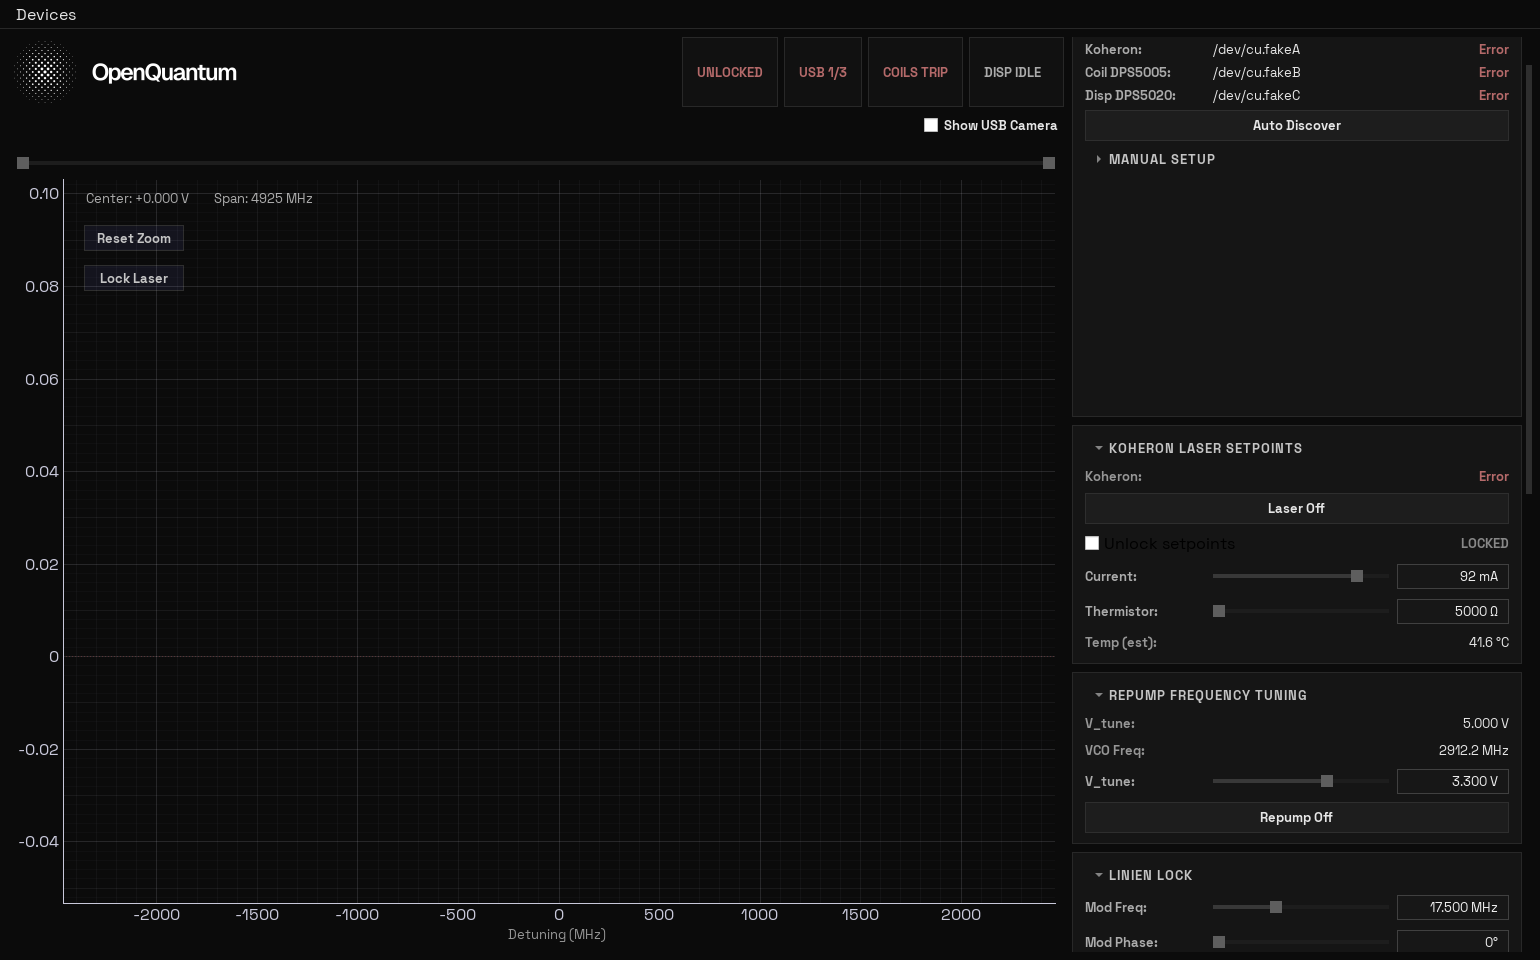
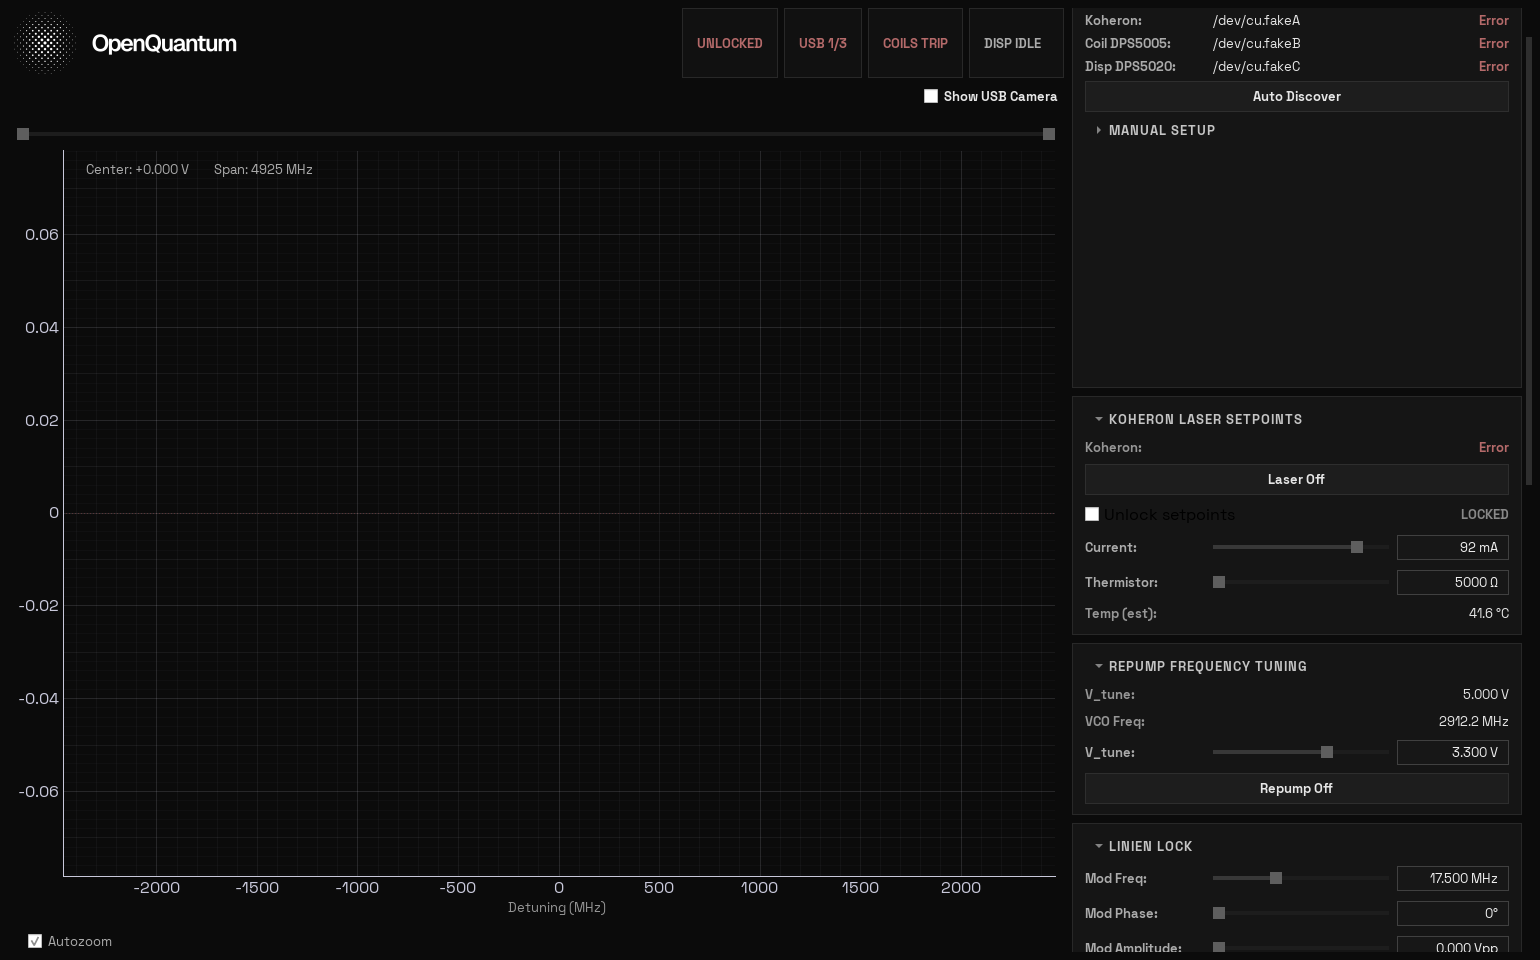
Clear the plot of buttons; autozoom on by default
Reset Zoom is gone, replaced by an Autozoom checkbox under the plot that
starts on and keeps Y tracking the signal. X stays under the sweep
slider -- autozooming it would fight _limit_xrange.

Lock Laser and Unlock move into the Linien Lock card. They are still
built by the Linien widget, which owns their lock wiring, and handed over
as lock_controls. Nothing but the centre/span labels sits over the traces
now.

The Devices menu bar is removed: both entries duplicated controls that
are already in the Device Connections card.

diff --git a/linien_widget.py b/linien_widget.py
@@ -147,45 +147,47 @@ class LinienWidget(QtWidgets.QWidget):
             QPushButton:hover { background-color: rgba(40,40,60,220); color: white; }
         """
 
-        self.reset_view_btn = QtWidgets.QPushButton("Reset Zoom")
-        self.reset_view_btn.setFixedSize(100, 26)
-        self.reset_view_btn.setStyleSheet(overlay_btn_style)
-        self.reset_view_btn.clicked.connect(self._reset_view)
-        proxy = QtWidgets.QGraphicsProxyWidget(vb)
-        proxy.setWidget(self.reset_view_btn)
-        proxy.setZValue(1000)
-        proxy.setPos(20, 45)
+        # Nothing but labels sits over the traces. The lock controls are
+        # handed to the host window (see lock_controls) so they can live in
+        # the Linien Lock card, and autozoom sits under the plot.
+        foot = QtWidgets.QHBoxLayout()
+        foot.setContentsMargins(20, 2, 8, 2)
+        foot.setSpacing(8)
+        self.autozoom_check = QtWidgets.QCheckBox("Autozoom")
+        self.autozoom_check.setChecked(True)
+        self.autozoom_check.setCursor(QtCore.Qt.PointingHandCursor)
+        self.autozoom_check.setStyleSheet(
+            "QCheckBox { color: #ababab; font-size: 13px; border: none; }"
+            "QCheckBox::indicator { width: 14px; height: 14px; }"
+        )
+        self.autozoom_check.toggled.connect(self._set_autozoom)
+        foot.addWidget(self.autozoom_check)
+        foot.addStretch()
+        layout.addLayout(foot)
+        self._set_autozoom(True)
 
+        self.lock_controls = QtWidgets.QWidget()
+        lock_row = QtWidgets.QHBoxLayout(self.lock_controls)
+        lock_row.setContentsMargins(0, 0, 0, 0)
+        lock_row.setSpacing(6)
         if self._show_lock_buttons:
             self.lock_button = QtWidgets.QPushButton("Lock Laser")
-            self.lock_button.setFixedSize(100, 26)
-            self.lock_button.setStyleSheet(overlay_btn_style)
+            self.lock_button.setCursor(QtCore.Qt.PointingHandCursor)
             self.lock_button.clicked.connect(self._run_lock)
-            proxy = QtWidgets.QGraphicsProxyWidget(vb)
-            proxy.setWidget(self.lock_button)
-            proxy.setZValue(1000)
-            proxy.setPos(20, 85)
+            lock_row.addWidget(self.lock_button)
 
             self.unlock_button = QtWidgets.QPushButton("Unlock")
-            self.unlock_button.setFixedSize(100, 26)
-            self.unlock_button.setStyleSheet(overlay_btn_style)
+            self.unlock_button.setCursor(QtCore.Qt.PointingHandCursor)
             self.unlock_button.clicked.connect(self._run_unlock)
-            proxy = QtWidgets.QGraphicsProxyWidget(vb)
-            proxy.setWidget(self.unlock_button)
-            proxy.setZValue(1000)
-            proxy.setPos(20, 120)
+            lock_row.addWidget(self.unlock_button)
 
             self._set_locked_ui(False)
 
         if self._show_stop_button:
             self.stop_sweep_btn = QtWidgets.QPushButton("Stop Sweep")
-            self.stop_sweep_btn.setFixedSize(100, 26)
-            self.stop_sweep_btn.setStyleSheet(overlay_btn_style)
+            self.stop_sweep_btn.setCursor(QtCore.Qt.PointingHandCursor)
             self.stop_sweep_btn.clicked.connect(self._stop_sweep)
-            proxy = QtWidgets.QGraphicsProxyWidget(vb)
-            proxy.setWidget(self.stop_sweep_btn)
-            proxy.setZValue(1000)
-            proxy.setPos(20, 85)
+            lock_row.addWidget(self.stop_sweep_btn)
 
         # Populate the overlay labels with calibrated units immediately,
         # so they don't sit at "0 V / 2 V" while waiting for the Linien
@@ -311,11 +313,15 @@ class LinienWidget(QtWidgets.QWidget):
         if current_xrange[0] < d_min or current_xrange[1] > d_max:
             vb.setXRange(d_min, d_max, padding=0)
 
-    def _reset_view(self):
-        slider_min, slider_max = self.xrange_slider.value()
-        d_min, d_max = self._v_range_to_display(slider_min / 1000, slider_max / 1000)
-        self.plot.setXRange(d_min, d_max, padding=0)
-        self.plot.setYRange(*self.original_yrange)
+    def _set_autozoom(self, on):
+        """Track the signal on Y, or hold whatever range is showing.
+
+        X stays under the sweep slider's control either way -- autozooming
+        it would fight _limit_xrange.
+        """
+        self.plot.enableAutoRange(axis="y", enable=bool(on))
+        if not on:
+            self.plot.setYRange(*self.plot.viewRange()[1], padding=0)
 
     def _run_lock(self):
         if self.linien_thread is None:

diff --git a/mot_control.py b/mot_control.py
@@ -860,7 +860,6 @@ class OpenQuantumControlsWindow(QtWidgets.QMainWindow):
 
         self.setWindowTitle("OpenQuantum Controls")
         self.resize(1540, 960)
-        self._build_menu()
 
         central = QtWidgets.QWidget()
         central.setObjectName("central")
@@ -1061,43 +1060,6 @@ class OpenQuantumControlsWindow(QtWidgets.QMainWindow):
     # ------------------------------------------------------------------
     # UI construction
     # ------------------------------------------------------------------
-
-    def _build_menu(self):
-        self.menuBar().setStyleSheet("""
-            QMenuBar {
-                background: #0b0b0b;
-                color: #e6e6e6;
-                border-bottom: 1px solid #282828;
-            }
-            QMenuBar::item {
-                background: transparent;
-                padding: 4px 10px;
-            }
-            QMenuBar::item:selected {
-                background: #1d1d1d;
-                color: white;
-            }
-            QMenu {
-                background: #171717;
-                color: #e6e6e6;
-                border: 1px solid #282828;
-            }
-            QMenu::item:selected {
-                background: #383838;
-                color: white;
-            }
-        """)
-        devices_menu = self.menuBar().addMenu("Devices")
-
-        show_devices_action = QtGui.QAction("Show Device Connections", self)
-        show_devices_action.triggered.connect(
-            lambda: self.usb_card.set_expanded(True)
-        )
-        devices_menu.addAction(show_devices_action)
-
-        discover_action = QtGui.QAction("Auto Discover USB Devices", self)
-        discover_action.triggered.connect(lambda: self._run_usb_probe(startup=False))
-        devices_menu.addAction(discover_action)
 
     def _build_spectroscopy_column(self, root):
         left = QtWidgets.QVBoxLayout()
@@ -1812,6 +1774,15 @@ class OpenQuantumControlsWindow(QtWidgets.QMainWindow):
             "button after selecting a lock region on the trace.",
             self.lock_readout,
             help_cursor=True,
+        )
+
+        # Lock/Unlock are built by the Linien widget (they carry its lock
+        # wiring) but belong here, not floating over the traces.
+        layout.addWidget(self.linien_widget.lock_controls)
+        self._tip(
+            "Engage or release the laser lock. Locking uses the two\n"
+            "positions picked on the error signal.",
+            self.linien_widget.lock_controls,
         )
 
         lock_button_row = QtWidgets.QHBoxLayout()
